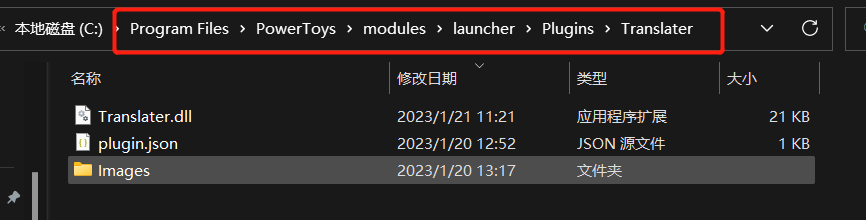
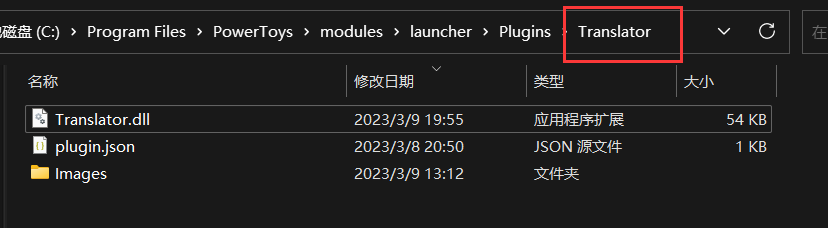
更新到v0.6.0

diff --git a/src/Translater.cs b/src/Translater.cs
@@ -36,7 +36,7 @@ namespace Translater
         private object preQueryLock = new Object();
         private bool delayedExecution = false;
         private bool enable_suggest = true;
-        private bool enable_read = true;
+        private bool enable_auto_read = false;
         private void LogInfo(string info)
         {
             if (!isDebug)
@@ -205,16 +205,19 @@ namespace Translater
                     SubTitle = $"[{query.RawQuery}]"
                 });
             }
-            var query_res = res.ToResultList(this.iconPath);
 
-            if (enable_read)
+            res.Add(new ResultItem
             {
-                res.Add(new ResultItem
-                {
-                    Title = querySearch,
-                    SubTitle = "[query raw]"
-                });
+                Title = querySearch,
+                SubTitle = "[query raw]"
+            });
+
+            if (this.enable_auto_read)
+            {
+                this.translateHelper?.Read(res.FirstOrDefault()?.Title);
             }
+
+            var query_res = res.ToResultList(this.iconPath);
 
             return query_res;
         }
@@ -252,9 +255,9 @@ namespace Translater
                     Value = true,
                 },
                 new PluginAdditionalOption{
-                    Key = "EnableRead",
-                    DisplayLabel = "Enable reading aloud",
-                    Value = true,
+                    Key = "EnableAutoRead",
+                    DisplayLabel = "Automatic reading result",
+                    Value = false,
                 }
             };
         }
@@ -278,7 +281,7 @@ namespace Translater
                 return target?.Value ?? true;
             };
             this.enable_suggest = GetSetting("EnableSuggest");
-            this.enable_read = GetSetting("EnableRead");
+            this.enable_auto_read = GetSetting("EnableAutoRead");
         }
 
         public List<ContextMenuResult> LoadContextMenus(Result selectedResult)

diff --git a/src/TranslateHelper.cs b/src/TranslateHelper.cs
@@ -100,9 +100,9 @@ public class TranslateHelper
         return res;
     }
 
-    public void Read(string txt)
+    public void Read(string? txt)
     {
-        if (isReading)
+        if (isReading || txt == null || txt.Length == 0)
             return;
         Task.Factory.StartNew(() =>
         {

diff --git a/readme.md b/readme.md
@@ -53,15 +53,21 @@
     |俄语 |ru| русск
 
 - 搜索建议
+
   - 根据当前的输入建议搜索内容
     ![suggest](Images/suggest.gif)
-  - 你可以在设置里取消
-    ![suggest setting](Images/suggest_setting.png)
+  - 可以在设置里选择是否启用建议, 对应`Enable search suggest`
+
+- 朗读内容
+  - 支持朗读中文, 英文(快捷键 ctrl+enter)
+    ![read](Images/read.png)
+  - 基于有道 TTS 接口
+  - 支持自动朗读结果功能, **默认关闭**, 可以在设置开启.对应`Automatic reading result`
 
 ## Install
 
 1. 关闭 PowerToys
-2. 下载 [Translater.zip](https://github.com/N0I0C0K/PowerTranslator/releases)
+2. 下载 [Translator.zip](https://github.com/N0I0C0K/PowerTranslator/releases)
 3. 解压到`{安装目录}\modules\launcher\Plugins\`
    如图所示
    ![file](Images/file.png)

diff --git a/Changelog.md b/Changelog.md
@@ -20,3 +20,11 @@
 
 - add
   - 新增了备用接口, 增加了稳定性
+
+## v0.6 2023/3/9
+
+- add
+  - 新增朗读功能, 支持中英文朗读, 快捷键 ctrl+enter
+  - 新增自动朗读结果(默认关闭)
+- change
+  - 项目名称更名为`PowerTranslator`
